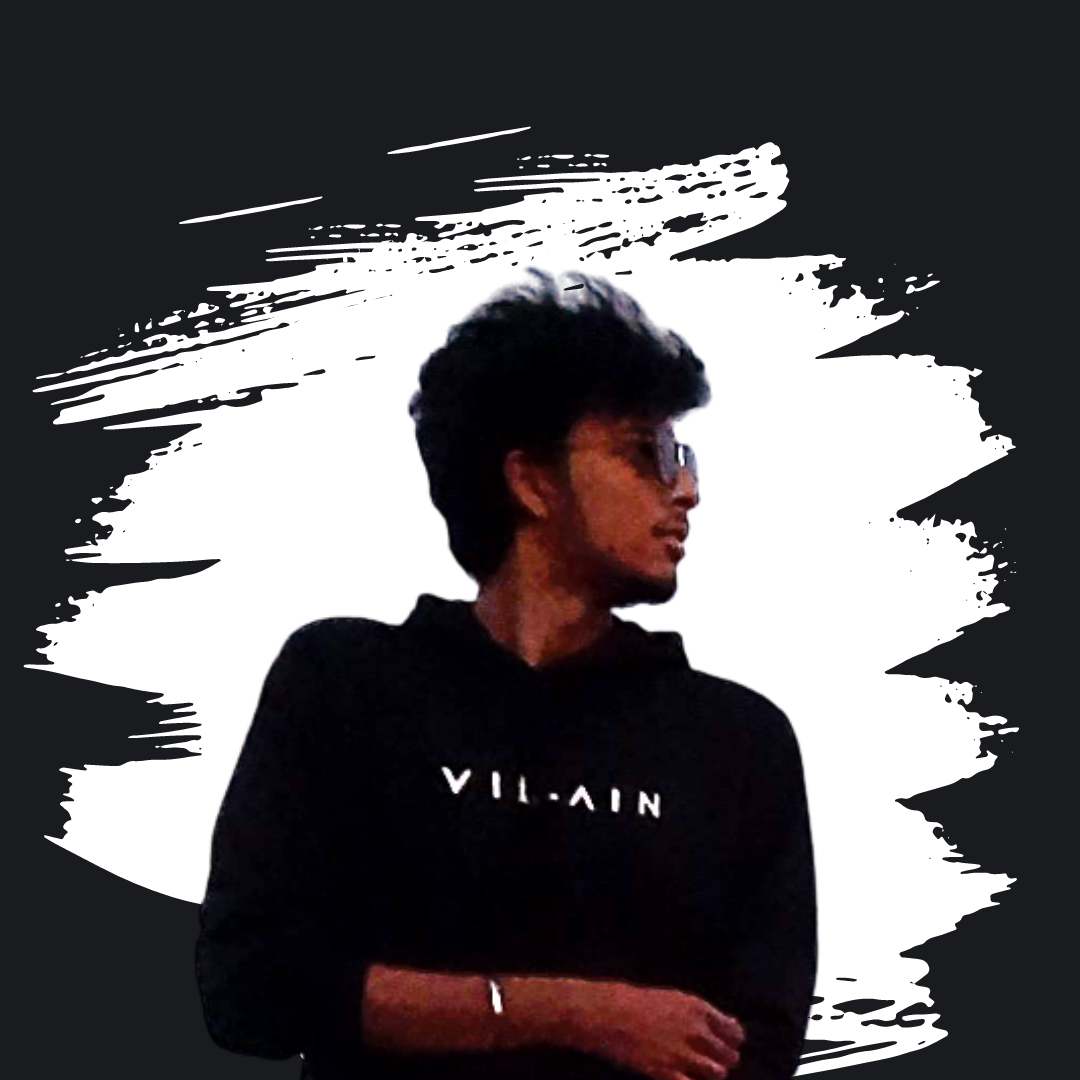
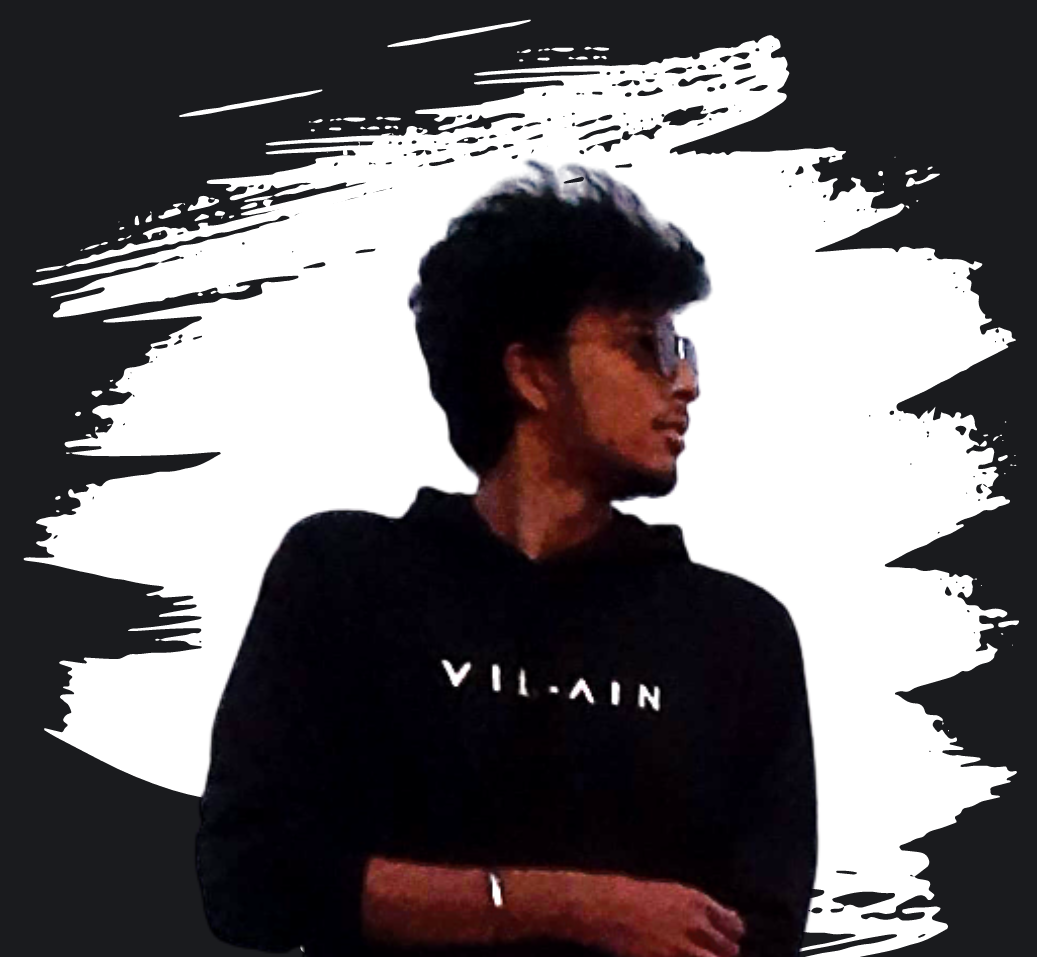
removed line in btw

diff --git a/styles.css b/styles.css
@@ -15,12 +15,12 @@
 
 
 .bg{
-    position: relative;
+    position: absolute;
     width: 1440px;
-    height: 2622px;
+    height: 900px;
 
     background: #1A1B1E;
-    box-shadow: 0px 4px 4px rgba(0, 0, 0, 0.25);
+    /* box-shadow: 0px 4px 4px rgba(0, 0, 0, 0.25); */
 }
 
 .bgimg{
@@ -109,7 +109,7 @@
 
 .blog{
     position: absolute;
-    left: 600px;
+    left: 40%;
     right: 0%;
     top: 1%;
     bottom: 0%;
@@ -196,9 +196,9 @@
 .pic{
     position: absolute;
     width: 585px;
-    height: 585px;
+    height: 565px;
     left: 89px;
-    top: 732px;
+    top: 742px;
 }
 
 .me{
@@ -250,7 +250,7 @@
     position: absolute;
     width: 695px;
     height: 206px;
-    left: 400px;
+    left: 390px;
     top: 1370px;
 
     font-family: 'Trirong';
@@ -278,7 +278,7 @@
     position: absolute;
     width: 245px;
     height: 82px;
-    left: 120px;
+    left: 118px;
     top: 1765px;
 
     font-family: 'Montserrat';
@@ -297,7 +297,7 @@
     position: absolute;
     width: 280px;
     height: 280px;
-    left: 400px;
+    left: 420px;
     top: 1700px;
 
     background: rgba(217, 217, 217, 0.25);
@@ -308,7 +308,7 @@
     position: absolute;
     width: 245px;
     height: 82px;
-    left: 470px;
+    left: 490px;
     top: 1765px;
 
     font-family: 'Montserrat';
@@ -327,7 +327,7 @@
     position: absolute;
     width: 280px;
     height: 280px;
-    left: 700px;
+    left: 730px;
     top: 1700px;
 
     background: rgba(217, 217, 217, 0.25);
@@ -338,7 +338,7 @@
     position: absolute;
     width: 245px;
     height: 82px;
-    left: 755px;
+    left: 780px;
     top: 1765px;
 
     font-family: 'Montserrat';
@@ -357,7 +357,7 @@
     position: absolute;
     width: 280px;
     height: 280px;
-    left: 1000px;
+    left: 1050px;
     top: 1700px;
 
     background: rgba(217, 217, 217, 0.25);
@@ -368,7 +368,7 @@
     position: absolute;
     width: 245px;
     height: 82px;
-    left: 1055px;
+    left: 1065px;
     top: 1765px;
 
     font-family: 'Montserrat';

diff --git a/index.html b/index.html
@@ -43,7 +43,10 @@
     <p class="services">Skillset </p>
     
     <canvas class="rect_prg" ></canvas>
-    <p class="text_prg">Programming</p>
+    <p class="text_prg">
+        Web
+        Developement
+    </p>
     
     <canvas class="rect_dev" ></canvas>
     <p class="text_dev">DevOps</p>
@@ -52,7 +55,10 @@
     <p class="text_des">Designing</p>
 
     <canvas class="rect_acd" ></canvas>
-    <p class="text_acd">Academics</p>
+    <p class="text_acd">
+        Machine
+        Learning
+    </p>
 
 </body>
 </html>
